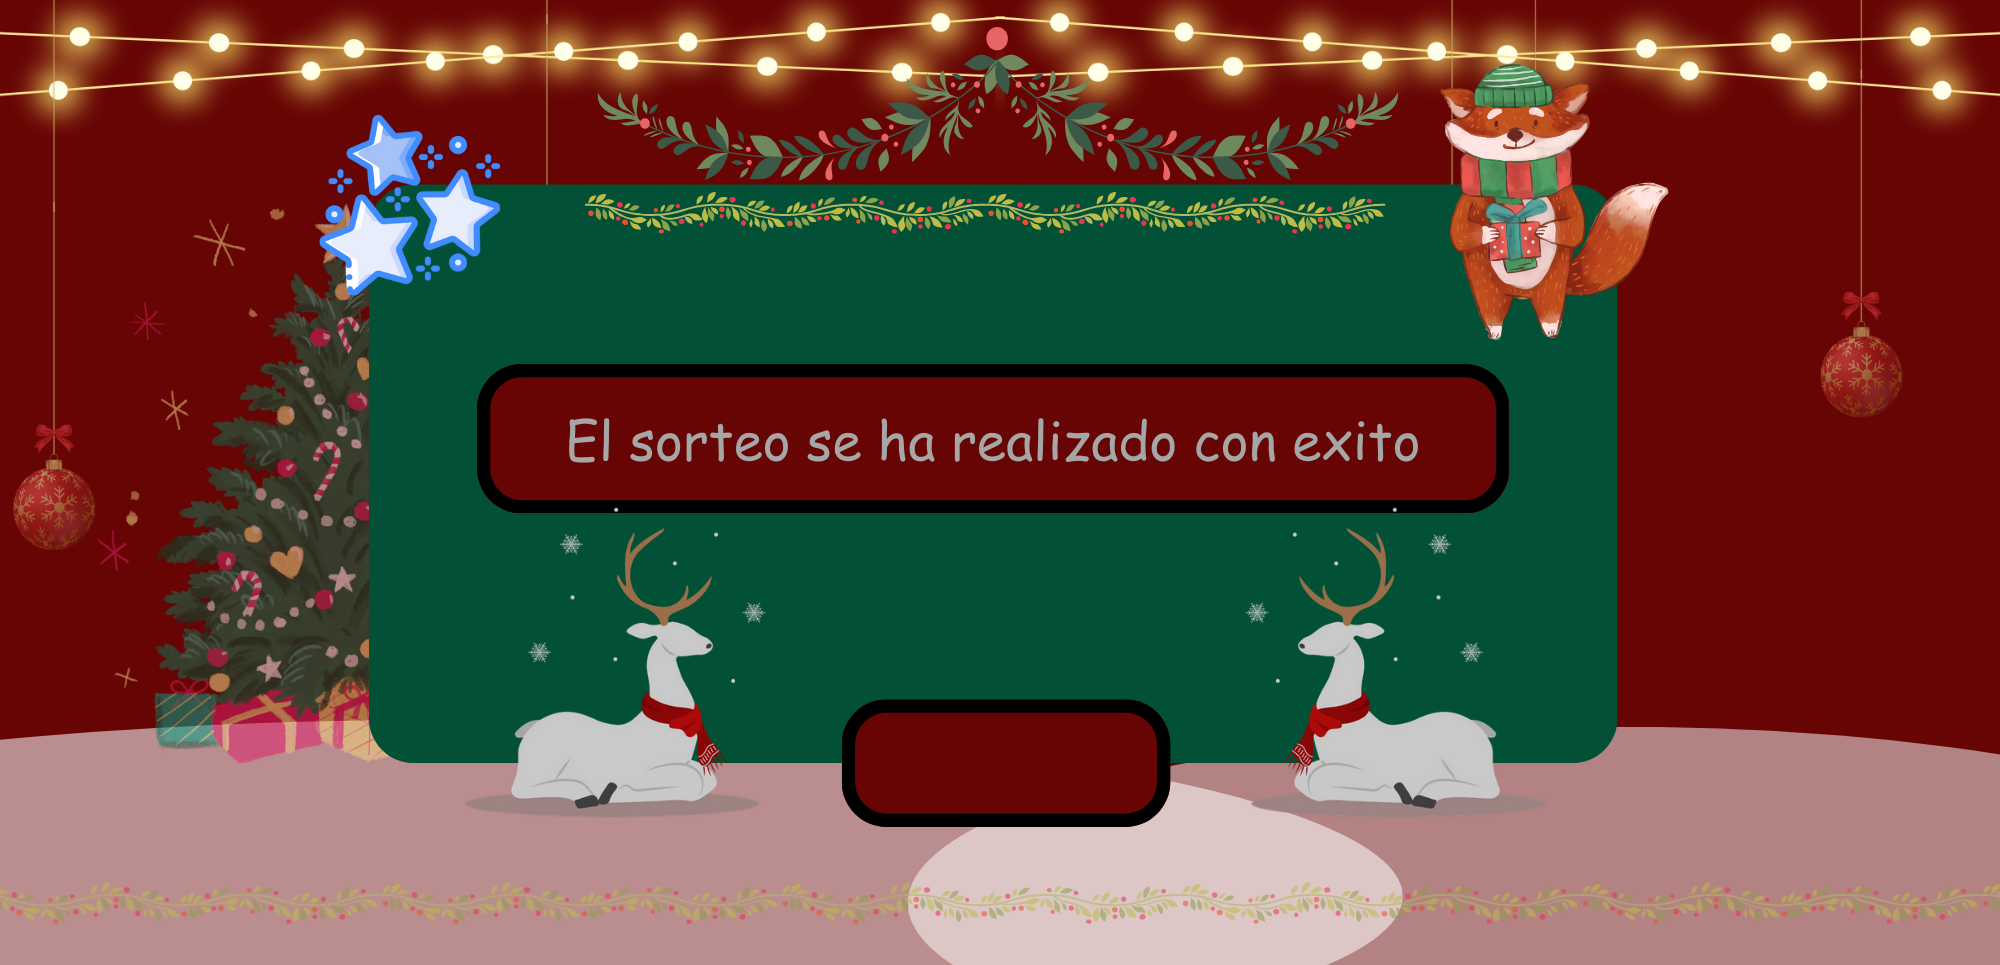
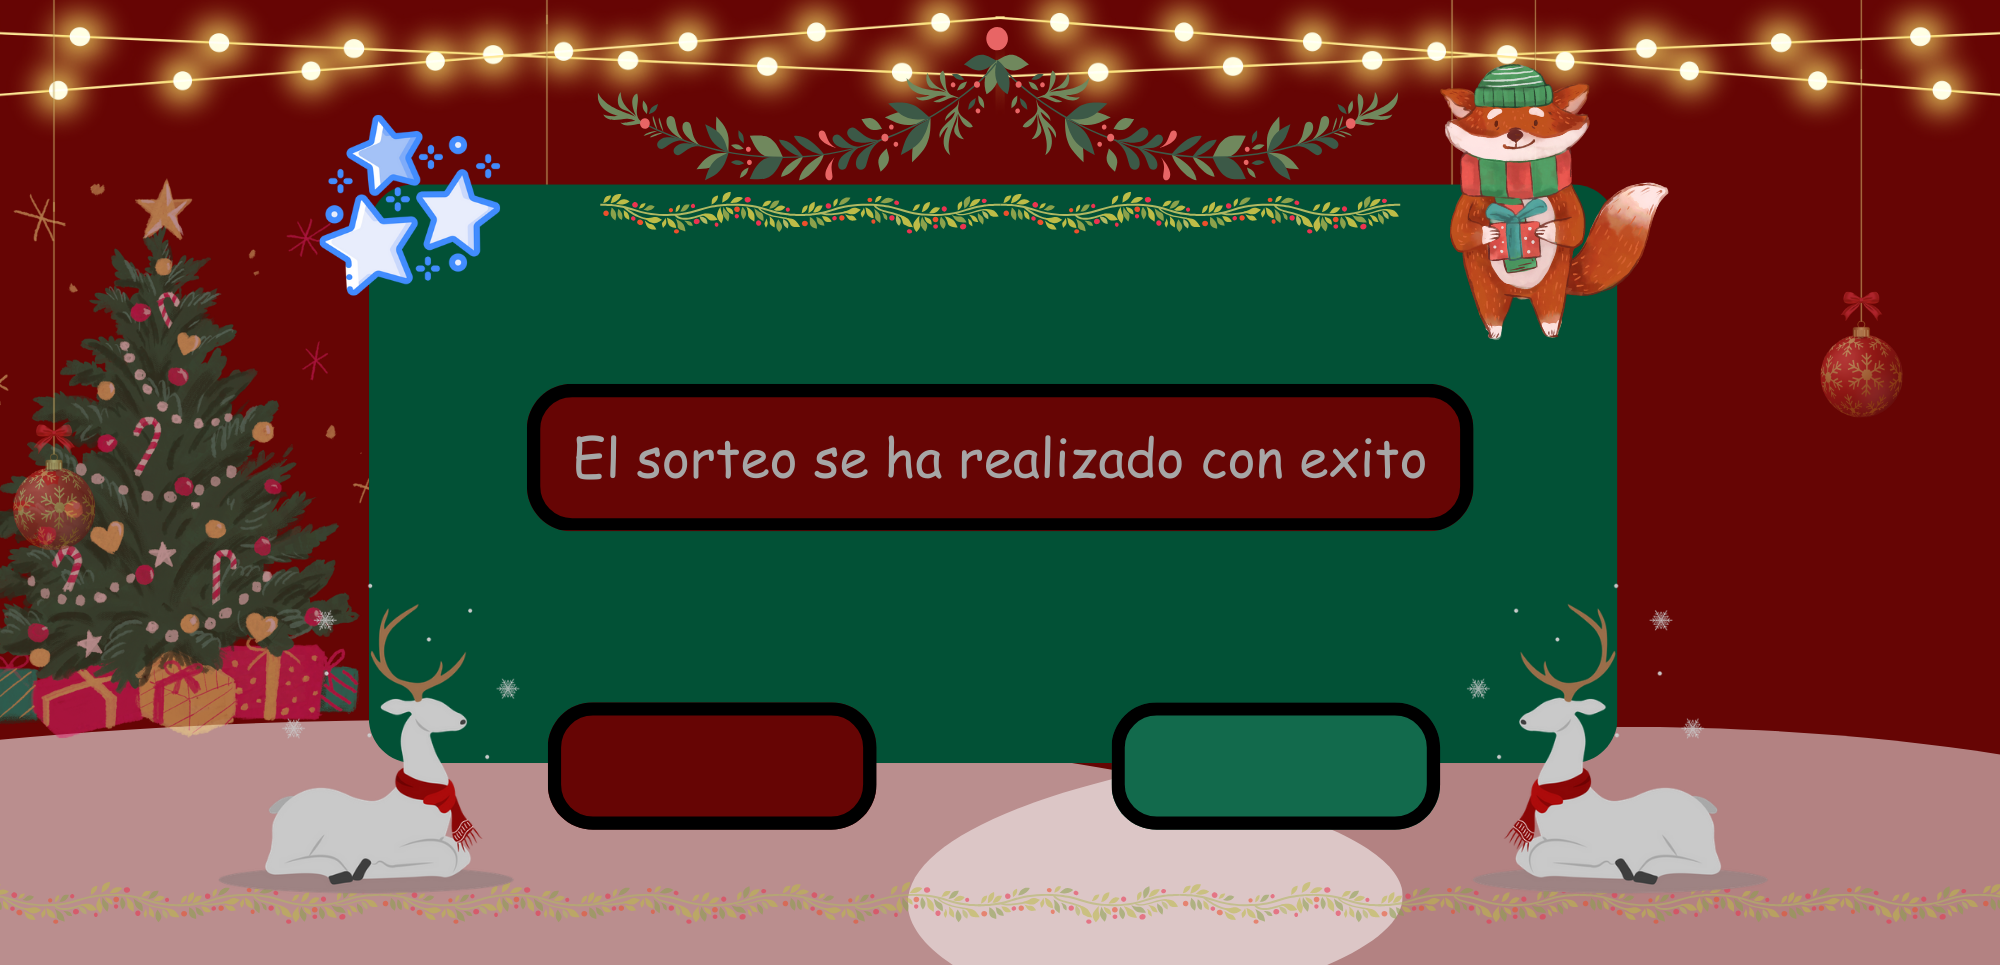
Rabolledo

diff --git a/US6.py b/US6.py
@@ -1,2 +1,64 @@
-from tkinter import Toplevel
+from tkinter.ttk import Treeview, Style
+from tkinter import Toplevel, font, Canvas, Button, Scrollbar, Frame
+from PIL import Image, ImageTk
+
+from US1 import lista
+
+def centrar_ventana(ventanacen, width, height):
+    wtotal = ventanacen.winfo_screenwidth()
+    htotal = ventanacen.winfo_screenheight()
+    pwidth = round(wtotal / 2 - width / 2)
+    pheight = round(htotal / 2 - height / 2)-40
+
+    #  Se lo aplicamos a la geometría de la ventana
+    ventanacen.geometry(str(width) + "x" + str(height) + "+" + str(pwidth) + "+" + str(pheight))
+def resize_image(event):
+    new_width = event.width
+    new_height = event.height
+    resized_image = image.resize((new_width, new_height))
+    photo_resized = ImageTk.PhotoImage(resized_image)
+    canvas.create_image(0, 0, image=photo_resized, anchor="nw")
+    canvas.image = photo_resized
+
+fuentet = font.Font(family="Comic Sans MS", size=20)
 ventana6 = Toplevel()
+centrar_ventana(ventana6, 800, 400)
+canvas = Canvas(ventana6, width=800, height=400)
+canvas.pack(fill="both", expand=True)
+image = Image.open('images/resul.png')
+ventana6.bind('<Configure>', resize_image)
+ventana6.update_idletasks()
+ventana6.geometry(f"{ventana6.winfo_width()}x{ventana6.winfo_height()}")
+btn_regresar_ventana_55 = Button(ventana6, text="Regresar", bg='#660504', fg='gray',
+                   font=("Comic Sans MS", 14), bd=0, relief="flat")
+btn_regresar_ventana_55.place(x=240, y=297)
+btn_enviar = Button(ventana6, text="Enviar correos", bg='#126a4c', fg='lime green',
+                   font=("Comic Sans MS", 11), bd=0, relief="flat")
+btn_enviar.place(x=455, y=302)
+style = Style()
+style.configure("Treeview",
+                font=("Arial", 15),
+                background="#660504",
+                fieldbackground="#ffffff",
+                foreground="grey",
+                rowheight=25)
+
+style.configure("Treeview.Heading",
+                font=("Arial", 13, "bold"),
+                background="#4CAF50",
+                foreground="lime green")
+frame = Frame(ventana6)
+frame.pack(padx=10, pady=10)
+tree = Treeview(ventana6, columns=("Participante", "Regala a"), show='headings', height=5)
+tree.heading("Participante", text="Participante")
+tree.heading("Regala a", text="Regala a")
+tree.column("Participante", width=200)
+tree.column("Regala a", width=200)
+tree.place(x=195, y=120)
+
+
+scrollbar_y = Scrollbar(frame, orient="vertical", command=tree.yview)
+scrollbar_y.pack(side="right", fill="y")
+scrollbar_x = Scrollbar(frame, orient="horizontal", command=tree.xview)
+scrollbar_x.pack(side="bottom", fill="x")
+tree.config(yscrollcommand=scrollbar_y.set, xscrollcommand=scrollbar_x.set)

diff --git a/US5.py b/US5.py
@@ -3,6 +3,7 @@ from tkinter.ttk import Progressbar
 from PIL import Image, ImageTk
 import random
 from US1 import lista
+from US6 import tree
 def centrar_ventana(ventanacen, width, height):
     wtotal = ventanacen.winfo_screenwidth()
     htotal = ventanacen.winfo_screenheight()
@@ -16,7 +17,7 @@ ventana5 = Toplevel()
 ventana5.iconify()
 centrar_ventana(ventana5, 800, 400)
 canvas = Canvas(ventana5, width=800, height=400)
-canvas.pack(fill="both", expand=True)
+canvas.pack(fill="both", expand=True, ipadx=10, ipady=10)
 image = Image.open('images/christmas.png')
 imagec = Image.open('images/carga.png')
 imagec = ImageTk.PhotoImage(imagec.resize((600,300)))
@@ -35,6 +36,7 @@ def resize_image(event):
     canvas.image = photo_resized
 
 def open_window():
+    ventana5.iconify()
     ventana55 = Toplevel(ventana5)
     ventana55.grab_set_global()
     ventana55.grab_set()
@@ -96,8 +98,12 @@ def on_progress_complete(progress_bar, ventana55):
     canvasfinal.image = photo_resized_fin
     btn_final = Button(ventana_final, text="Salir", command=ventana5.master.destroy, bg='#660504', fg='gray',
                        font=("Comic Sans MS", 14), bd=0, relief="flat")
-    btn_final.place(x=325, y=295)
+    btn_final.place(x=220, y=296)
+    btn_resultados= Button(ventana_final, text="Resultados", bg='#126a4c', fg='lime green',
+                       font=("Comic Sans MS", 12), bd=0, relief="flat")
+    btn_resultados.place(x=403, y=297)
     realizar_sorteo()
+
 
 
 ventana5.bind('<Configure>', resize_image)
@@ -131,8 +137,8 @@ def rotate_image():
     lruleta.image = rotated_photor
     ventana5.after(20, rotate_image)
 
+lista_participantes = []
 def realizar_sorteo():
-    lista_participantes = []
     elemento = lista.cabeza
     for i in range (lista.contar_participantes()):
         lista_participantes.append(elemento)
@@ -146,8 +152,10 @@ def realizar_sorteo():
 
     for j in range(len(lista_participantes)):
         if j == len(lista_participantes)-1:
+            tree.insert("", "end", values=(lista_participantes[j].nombre, lista_participantes[0].nombre))
             print("El usuario " + str(lista_participantes[j].nombre)+ ", le regala a " + str(lista_participantes[0].nombre))
         else:
+            tree.insert("", "end", values=(lista_participantes[j].nombre, lista_participantes[j+1].nombre))
             print("El usuario " + str(lista_participantes[j].nombre)+ ", le regala a " + str(lista_participantes[j+1].nombre))
 
 rotate_image.angle = 0
